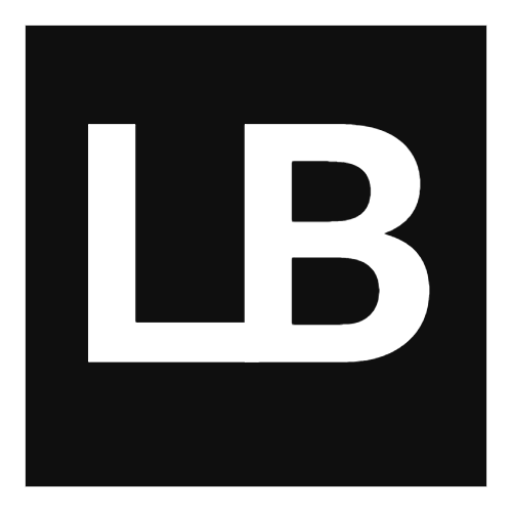
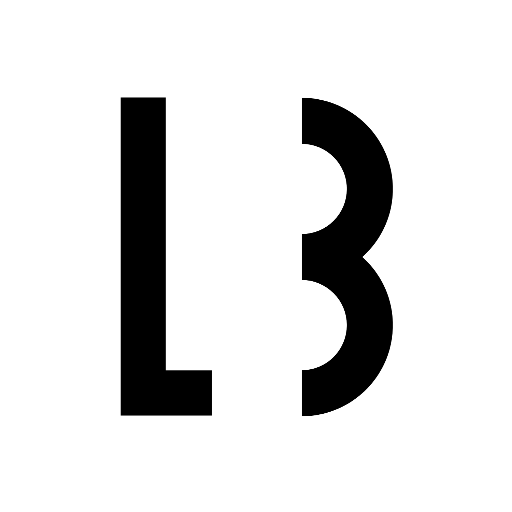
v1

diff --git a/src/pages/Home/index.jsx b/src/pages/Home/index.jsx
@@ -26,6 +26,9 @@ const Home = () => {
 
   return (
     <div className={styles.home}>
+      <div className={styles.__container}>
+        <AnimCircle />
+      </div>
       {loading ? (
         <LoaderSpinner />
       ) : (
@@ -36,9 +39,7 @@ const Home = () => {
             onClose={() => setOpenModal(false)}
             content={showContent}
           />
-          <div className={styles.__container}>
-            <AnimCircle />
-          </div>
+
           <div className={styles.__section}>
             <div className={styles.__box}>
               <div className={styles.__box_content}>
@@ -46,12 +47,17 @@ const Home = () => {
                   <img src={gif} alt="event aqua art miami " />
                 </div>
                 <div className={styles.__txt}>
-                  <p>
-                    "I want to continue promoting arts and special pieces
-                    internationally, meet a growing demand for high-quality and
-                    rare products, build a collection based on encounters,
-                    project stories of human beings."
-                  </p>
+                  <blockquote>
+                    <p>
+                      "I want to continue promoting arts and special pieces
+                      internationally, meet a growing demand for high-quality
+                      and rare products, build a collection based on encounters,
+                      project stories of human beings."
+                    </p>
+                    <footer>
+                      <cite>- Lise Braun art</cite>
+                    </footer>
+                  </blockquote>
                 </div>
                 <div id={styles.form} className={styles.__form_contact}>
                   <span id={styles.__title}>

diff --git a/src/components/HeaderTxt/index.jsx b/src/components/HeaderTxt/index.jsx
@@ -9,6 +9,7 @@ const HeaderTxt = ({ txts }) => {
         title: "art",
         paragraph:
           "I opened my first gallery at the age of 20, while studying interior design. Since then, I've been promoting emerging and established artists, both in and out of the gallery. We are present at various international contemporary art fairs. My unique guiding principle: the passion and close relationship I have with my artists.",
+        cite: "- Lise Braun art",
       },
     ],
     design: [
@@ -16,13 +17,15 @@ const HeaderTxt = ({ txts }) => {
         title: "design",
         paragraph:
           "In France, I have represented prestigious design editors such as Vitra, Cappellini, Agape, Roda and Bitossi. This encouraged me to produce art objects in ultra-limited series.",
+        cite: "- Lise Braun art",
       },
     ],
-    creation: [
+    curation: [
       {
-        title: "creation",
+        title: "curation",
         paragraph:
           "I love artistic research and inventing concepts and bridges between the arts. I regularly organize exhibitions for companies and institutions. We've linked contemporary art, perfume, haiku, Formula 1 objects and, of course, digital art. I'm an early member of Blockchain Innov.",
+        cite: "- Lise Braun art",
       },
     ],
   };
@@ -34,8 +37,13 @@ const HeaderTxt = ({ txts }) => {
       <ul>
         {content.map((item, index) => (
           <li key={index}>
-            <h1>{item.title}</h1>
-            <p>{item.paragraph}</p>
+            <blockquote>
+              <h1>{item.title}</h1>
+              <p>{item.paragraph}</p>
+              <footer>
+                <cite>{item.cite}</cite>
+              </footer>
+            </blockquote>
           </li>
         ))}
       </ul>

diff --git a/src/components/HeaderTxt/styles.module.scss b/src/components/HeaderTxt/styles.module.scss
@@ -8,17 +8,31 @@
     list-style-type: none;
 
     li {
-      h1 {
-        font-size: 7rem;
-        padding: 2rem;
-        text-align: center;
-        color: #999797;
-      }
+      blockquote {
+        width: 100%;
+        height: auto;
+        padding: 0.5rem;
+        border: 2px solid red;
+        display: block;
+        h1 {
+          font-size: 7rem;
+          padding: 2rem;
+          text-align: center;
+          color: #999797;
+        }
 
-      p {
-        color: #fff;
-        font-size: 18px;
-        line-height: 1.3;
+        p {
+          color: #fff;
+          font-size: 18px;
+          line-height: 1.3;
+        }
+        cite {
+          color: silver;
+          text-align-last: end;
+          width: 100%;
+          height: auto;
+          padding-top: 0.5rem;
+        }
       }
     }
   }

diff --git a/src/pages/Home/styles.module.scss b/src/pages/Home/styles.module.scss
@@ -34,16 +34,27 @@
         padding: 2rem;
 
         .__txt {
-          width: 14%;
+          width: 15%;
           display: flex;
           margin-left: auto;
           z-index: 3;
           word-wrap: break-word;
-          p {
-            font-size: 18px;
-            padding: 1rem;
-            line-height: 1.2;
-            color: #fff;
+
+          blockquote {
+            display: block;
+            padding: 1.5rem 0;
+            p {
+              font-size: 18px;
+              line-height: 1.2;
+              color: #fff;
+            }
+            cite {
+              color: silver;
+              text-align-last: end;
+              width: 100%;
+              height: auto;
+              padding: 0.5rem 1rem;
+            }
           }
         }
 

diff --git a/src/components/Header/index.jsx b/src/components/Header/index.jsx
@@ -6,14 +6,14 @@ import styles from "./styles.module.scss";
 import menu from "../../assets/icon/menu.png";
 import cross from "../../assets/icon/cross.png";
 import logoDesk from "../../assets/logo/gblwhite.png";
-import logoMobile from "../../assets/logo/logolb.png";
+import logoMobile from "../../assets/logo/logolbwhite.png";
 
 const Header = () => {
   const [openModal, setOpenModal] = useState(false);
   const [selectedTxt, setSelectedTxt] = useState("");
   const [isOpen, setIsOpen] = useState(false);
   const instaURL = process.env.REACT_APP_INSTA_URL;
-  const listItems = ["art", "design", "creation"];
+  const listItems = ["art", "design", "curation"];
   const [isMobile, setIsMobile] = useState(window.innerWidth < 980);
 
   useEffect(() => {

diff --git a/src/components/AnimCircle/styles.module.scss b/src/components/AnimCircle/styles.module.scss
@@ -7,16 +7,15 @@
 
   .__mask {
     height: 100vh;
-    z-index: 2;
     width: 100%;
     background-image: url($backgroundImage);
+    background-color: $backgroundFilter;
     background-size: cover;
     background-position-y: 70%;
     background-repeat: no-repeat;
+    background-blend-mode: multiply;
 
     canvas {
-      background-color: $backgroundFilter;
-      background-size: cover;
       width: 100%;
       height: 100%;
       display: flex;

diff --git a/src/components/Footer/index.jsx b/src/components/Footer/index.jsx
@@ -2,7 +2,7 @@ import { Link } from "react-router-dom";
 // Styles
 import styles from "./styles.module.scss";
 // Assets
-import logo from "../../assets/logo/gblwhite.png";
+import logo from "../../assets/logo/logolbwhite.png";
 import KeepInTouch from "../KeepInTouch";
 
 const Footer = ({ setOpenModal }) => {

diff --git a/src/components/AnimCircle/index.jsx b/src/components/AnimCircle/index.jsx
@@ -35,7 +35,7 @@ const AnimCircle = ({ img, mask, width }) => {
 
     canvas.width = window.innerWidth;
     canvas.height = window.innerHeight;
-    // Load
+    // Load image & circle mask with drawCircle() bg inside
     const img = new Image();
     img.src = backgroundImage;
     img.onload = () => {

diff --git a/src/components/Footer/styles.module.scss b/src/components/Footer/styles.module.scss
@@ -32,9 +32,9 @@ footer {
 
       .__logo {
         display: flex;
-        width: 12rem;
+        width: 4rem;
         object-fit: contain;
-        height: 2rem;
+        height: 4rem;
         img {
           width: 100%;
           height: 100%;
